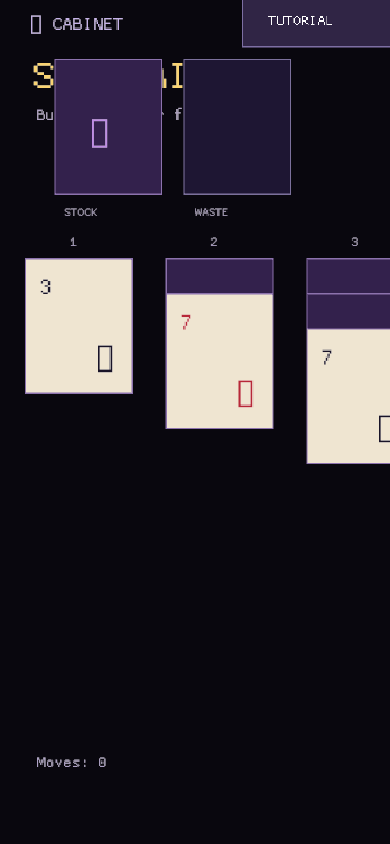
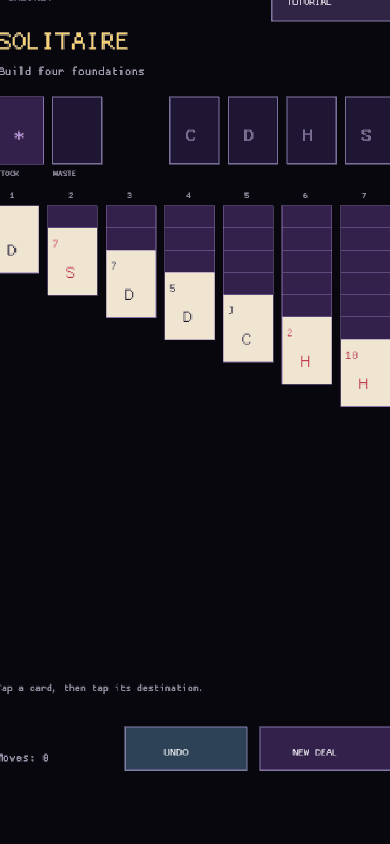
The patient tableau opens on a pocket table (Compact Solitaire)
Add a compact portrait Solitaire layout that keeps stock, waste, foundations, tableau columns, selection, undo, and new deal reachable by touch. Replace unsupported suit glyphs with readable suit initials, verify the 390x844 capture, and publish the updated packages to Preview.

diff --git a/src/responsive_cards.rs b/src/responsive_cards.rs
@@ -1,0 +1,216 @@
+//! Compact portrait layout for the card games.
+
+use crate::{
+    cosmetics,
+    solitaire::{Card, CardSource, SolitaireStatus},
+    state::AppState,
+    ui::UiAction,
+};
+use macroquad::prelude::*;
+
+const CARD_W: f32 = 43.;
+const CARD_H: f32 = 58.;
+const COL_GAP: f32 = 7.;
+
+fn panel(rect: Rect, fill: Color) {
+    draw_rectangle(rect.x, rect.y, rect.w, rect.h, fill);
+    draw_rectangle_lines(
+        rect.x,
+        rect.y,
+        rect.w,
+        rect.h,
+        2.,
+        Color::new(0.45, 0.38, 0.65, 0.65),
+    );
+}
+
+fn text(value: &str, x: f32, y: f32, size: f32, color: Color) {
+    draw_text(value, x, y, size, color);
+}
+
+fn card_rect(x: f32, y: f32) -> Rect {
+    Rect::new(x, y, CARD_W, CARD_H)
+}
+
+fn card_x(column: usize) -> f32 {
+    4. + column as f32 * (CARD_W + COL_GAP)
+}
+
+fn draw_card(rect: Rect, card: Card, selected: bool, back_style: u8) {
+    let (back, mark) = cosmetics::card_back_colors(back_style);
+    let face = if card.face_up {
+        Color::new(0.94, 0.90, 0.82, 1.)
+    } else {
+        back
+    };
+    draw_rectangle(rect.x, rect.y, rect.w, rect.h, face);
+    draw_rectangle_lines(
+        rect.x,
+        rect.y,
+        rect.w,
+        rect.h,
+        if selected { 3. } else { 1. },
+        if selected {
+            Color::new(0.98, 0.75, 0.30, 1.)
+        } else {
+            Color::new(0.55, 0.45, 0.68, 1.)
+        },
+    );
+    if !card.face_up {
+        text("*", rect.x + 17., rect.y + 38., 22., mark);
+        return;
+    }
+    let rank = [
+        "", "A", "2", "3", "4", "5", "6", "7", "8", "9", "10", "J", "Q", "K",
+    ][card.rank as usize];
+    let suit = ["C", "D", "H", "S"][card.suit as usize];
+    let color = if card.red() {
+        Color::new(0.72, 0.16, 0.22, 1.)
+    } else {
+        Color::new(0.10, 0.08, 0.16, 1.)
+    };
+    text(rank, rect.x + 4., rect.y + 17., 13., color);
+    text(suit, rect.x + 15., rect.y + 43., 19., color);
+}
+
+pub fn draw_solitaire(state: &AppState) {
+    let game = &state.solitaire;
+    text("‹ CABINET", 8., 30., 13., Color::new(0.78, 0.70, 0.92, 1.));
+    text("SOLITAIRE", 10., 72., 29., Color::new(0.98, 0.83, 0.45, 1.));
+    text(
+        if game.status == SolitaireStatus::Won {
+            "Table cleared"
+        } else {
+            "Build four foundations"
+        },
+        12.,
+        94.,
+        13.,
+        Color::new(0.70, 0.64, 0.78, 1.),
+    );
+    let top_y = 112.;
+    let stock = card_rect(8., top_y);
+    panel(stock, Color::new(0.20, 0.13, 0.30, 1.));
+    if let Some(card) = game.stock.last() {
+        draw_card(stock, *card, false, state.card_back);
+    }
+    let waste = card_rect(58., top_y);
+    if let Some(card) = game.waste.last() {
+        draw_card(
+            waste,
+            *card,
+            game.selected == Some(CardSource::Waste),
+            state.card_back,
+        );
+    } else {
+        panel(waste, Color::new(0.12, 0.09, 0.20, 1.));
+    }
+    for suit in 0..4 {
+        let rect = card_rect(158. + suit as f32 * 50., top_y);
+        panel(rect, Color::new(0.12, 0.09, 0.20, 1.));
+        if game.foundations[suit] > 0 {
+            draw_card(
+                rect,
+                Card {
+                    rank: game.foundations[suit],
+                    suit: suit as u8,
+                    face_up: true,
+                },
+                false,
+                state.card_back,
+            );
+        } else {
+            text(
+                ["C", "D", "H", "S"][suit],
+                rect.x + 13.,
+                rect.y + 38.,
+                20.,
+                Color::new(0.46, 0.37, 0.58, 1.),
+            );
+        }
+    }
+    text("STOCK", 10., 180., 9., Color::new(0.63, 0.58, 0.72, 1.));
+    text("WASTE", 59., 180., 9., Color::new(0.63, 0.58, 0.72, 1.));
+    for column in 0..7 {
+        let x = card_x(column);
+        text(
+            &(column + 1).to_string(),
+            x + 18.,
+            199.,
+            10.,
+            Color::new(0.63, 0.58, 0.72, 1.),
+        );
+        for (depth, card) in game.tableau[column].iter().enumerate() {
+            let rect = card_rect(x, 205. + depth as f32 * 19.);
+            draw_card(
+                rect,
+                *card,
+                game.selected == Some(CardSource::Tableau(column, depth)),
+                state.card_back,
+            );
+        }
+        if game.tableau[column].is_empty() {
+            panel(card_rect(x, 205.), Color::new(0.12, 0.09, 0.20, 1.));
+        }
+    }
+    text(
+        &format!("Moves: {}", game.moves),
+        10.,
+        680.,
+        13.,
+        Color::new(0.68, 0.63, 0.78, 1.),
+    );
+    panel(
+        Rect::new(120., 650., 105., 38.),
+        Color::new(0.18, 0.26, 0.34, 1.),
+    );
+    text("UNDO", 153., 675., 12., WHITE);
+    panel(
+        Rect::new(235., 650., 115., 38.),
+        Color::new(0.20, 0.13, 0.30, 1.),
+    );
+    text("NEW DEAL", 263., 675., 11., WHITE);
+    text(
+        "Tap a card, then tap its destination.",
+        10.,
+        620.,
+        11.,
+        Color::new(0.63, 0.58, 0.72, 1.),
+    );
+}
+
+pub fn solitaire_clicks(state: &AppState, p: Vec2) -> Vec<UiAction> {
+    if Rect::new(0., 0., 100., 42.).contains(p) {
+        return vec![UiAction::Cabinet];
+    }
+    if card_rect(8., 112.).contains(p) {
+        return vec![UiAction::SolitaireStock];
+    }
+    if card_rect(58., 112.).contains(p) {
+        return vec![UiAction::SolitaireWaste];
+    }
+    for suit in 0..4 {
+        if card_rect(158. + suit as f32 * 50., 112.).contains(p) {
+            return vec![UiAction::SolitaireFoundation(suit)];
+        }
+    }
+    if Rect::new(120., 650., 105., 38.).contains(p) {
+        return vec![UiAction::SolitaireUndo];
+    }
+    if Rect::new(235., 650., 115., 38.).contains(p) {
+        return vec![UiAction::SolitaireNew];
+    }
+    for column in 0..7 {
+        let x = card_x(column);
+        if p.x >= x && p.x <= x + CARD_W && p.y >= 195. {
+            let depth = if state.solitaire.tableau[column].is_empty() {
+                0
+            } else {
+                (((p.y - 205.) / 19.).floor().max(0.) as usize)
+                    .min(state.solitaire.tableau[column].len() - 1)
+            };
+            return vec![UiAction::SolitaireTableau(column, depth)];
+        }
+    }
+    vec![]
+}

diff --git a/src/ui.rs b/src/ui.rs
@@ -10,6 +10,7 @@ use crate::minesweeper_ui;
 use crate::nonogram_ui;
 use crate::palette_ui;
 use crate::records_ui;
+use crate::responsive_cards;
 use crate::responsive_puzzles;
 use crate::responsive_ui;
 use crate::reversi_ui;
@@ -154,6 +155,9 @@ pub fn clicks(state: &AppState) -> Vec<UiAction> {
             responsive_puzzles::nonogram_clicks(state, p)
         }
         Screen::Game(GameId::Nonogram) => nonogram_ui::nonogram_clicks(state, p),
+        Screen::Game(GameId::Solitaire) if is_portrait() => {
+            responsive_cards::solitaire_clicks(state, p)
+        }
         Screen::Game(GameId::Solitaire) => solitaire_ui::solitaire_clicks(state, p),
         Screen::Game(GameId::FreeCell) => freecell_ui::freecell_clicks(state, p),
         Screen::Game(GameId::Yahtzee) => fivefold_ui::fivefold_clicks(state, p),
@@ -190,6 +194,7 @@ pub fn draw(state: &AppState, data: &GameData, loaded_assets: usize) {
         Screen::Game(GameId::Sudoku) => sudoku_ui::draw_sudoku(state),
         Screen::Game(GameId::Nonogram) if is_portrait() => responsive_puzzles::draw_nonogram(state),
         Screen::Game(GameId::Nonogram) => nonogram_ui::draw_nonogram(state),
+        Screen::Game(GameId::Solitaire) if is_portrait() => responsive_cards::draw_solitaire(state),
         Screen::Game(GameId::Solitaire) => solitaire_ui::draw_solitaire(state),
         Screen::Game(GameId::FreeCell) => freecell_ui::draw_freecell(state),
         Screen::Game(GameId::Yahtzee) => fivefold_ui::draw_fivefold(state),

diff --git a/src/main.rs b/src/main.rs
@@ -20,6 +20,7 @@ mod nonogram_ui;
 mod palette_ui;
 mod progression;
 mod records_ui;
+mod responsive_cards;
 mod responsive_puzzles;
 mod responsive_ui;
 mod reversi;

diff --git a/TODO.md b/TODO.md
@@ -27,7 +27,7 @@ sizes, covered by rule tests, and passes `publish.ps1`.
 - [ ] Implement safe viewport handling and compact/medium/expanded layouts.
   - [x] Add an aspect-preserving logical viewport with letterbox edge rejection.
   - [x] Add a full-size compact portrait canvas for the cabinet, 2048, Sudoku,
-    Nonogram, Minesweeper, and Settings flows.
+    Nonogram, Minesweeper, Solitaire, and Settings flows.
 - [ ] Normalize touch/pointer input with tap, drag, swipe, cancel, and edge rules.
   - [x] Normalize pointer taps, drags, cancellations, and logical edge rules.
 - [x] Build 44-point-minimum shared controls, modal sheets, help, and settings.
@@ -56,6 +56,8 @@ sizes, covered by rule tests, and passes `publish.ps1`.
   - [x] Cover shared grid boundaries and independent row/column sizing in rule tests.
   - [x] Verify the compact Minesweeper board, presets, mode toggle, restart,
     and long-press flagging at 390×844.
+  - [x] Verify compact Solitaire stock, waste, foundations, tableau, undo,
+    and new-deal controls at 390×844.
 
 ## Phase 3 — Sudoku and Nonogram
 
